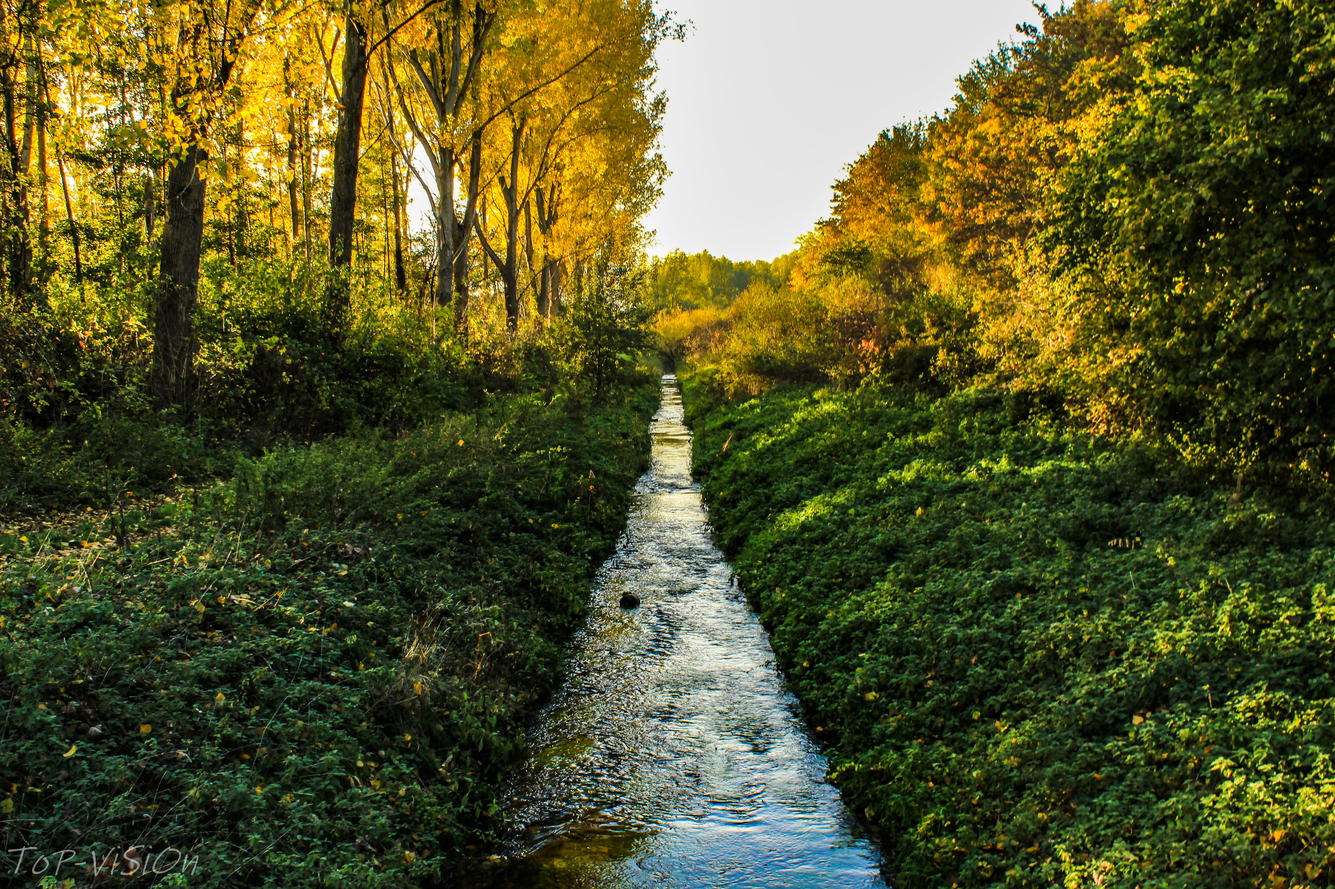
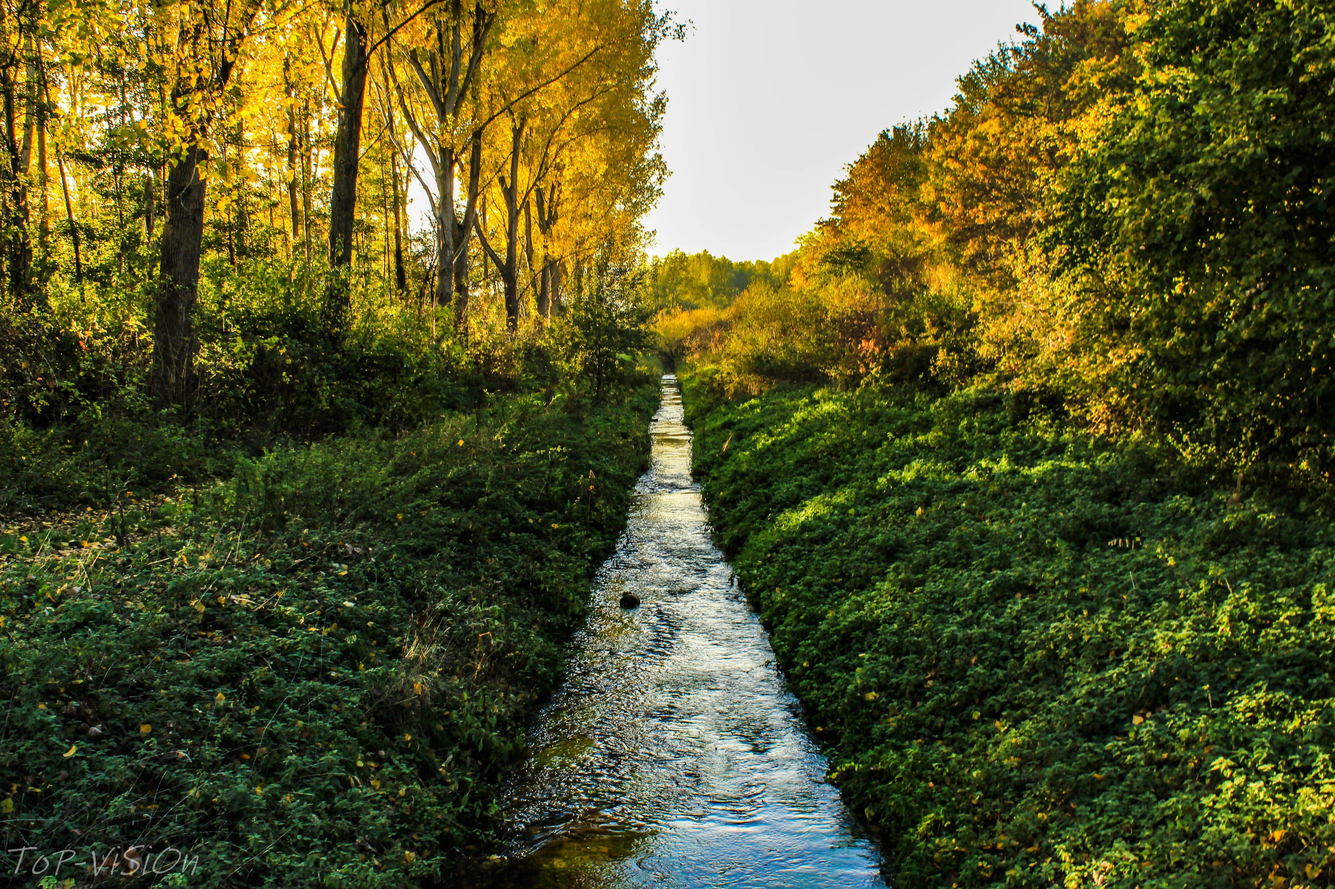
-added commit at JS -compressed images

diff --git a/script.js b/script.js
@@ -1,39 +1,134 @@
-let currentIndex = 1;
+// Speichert, welches Bild gerade geöffnet ist
+// Starten bei 0 (erstes Bild)
+let currentIndex = 0;
+
+// Anzahl aller Bilder im Ordner
 const totalImages = 27;
 
 
+// Container, in dem alle Vorschaubilder liegen
+const imageContainer = document.getElementById('image-container');
+
+// Das <dialog>-Element für die große Ansicht
+const dialog = document.getElementById('open-dialog');
+
+// Das <img>-Element im Dialog
+const dialogImg = document.getElementById('dialog-img');
+
+// Button zum Schließen des Dialogs
+const closeButton = document.getElementById('close-button');
+
+// Navigationspfeil nach links
+const navBack = document.querySelector('.nav.back');
+
+// Navigationspfeil nach rechts
+const navNext = document.querySelector('.nav.next');
+
+
+// Bilder in die Seite einfügen
+
+
 function renderImg() {
-    const imagecontainerRef = document.getElementById('image-container');
-    
-    for(let i = 1; i < 28; i++){  
-        
-        imagecontainerRef.innerHTML += `<img src="./img/bild${i}.jpg" alt="" onclick="openDialog(${i})">`
+    // Schleife läuft so oft, wie es Bilder gibt
+    for (let i = 0; i < totalImages; i++) {
+
+        // Fügt für jedes Bild ein <img>-Element in den Container ein
+        // i + 1, weil die Dateinamen bei bild1.jpg beginnen
+        imageContainer.innerHTML += `
+            <img src="./img/bild${i + 1}.jpg" alt="">
+        `;
     }
 }
 
-function openDialog (i) {
-    const dialog = document.getElementById('open-dialog');
-    const dialogImg = document.getElementById('dialog-img');
 
-    dialogImg.src = `./img/bild${i}.jpg`;
+// Dialog öffnen und Bild setzen
+
+
+function openDialog(index) {
+    // Merkt sich, welches Bild geklickt wurde
+    currentIndex = index;
+
+    // Setzt das passende Bild im Dialog
+    dialogImg.src = `./img/bild${currentIndex + 1}.jpg`;
+
+    // Öffnet das Dialogfenster
     dialog.showModal();
-} 
+}
 
-document.getElementById('close-button').addEventListener('click', () => {
-    document.getElementById('open-dialog').close();
+
+// Dialog schließen
+
+
+closeButton.addEventListener('click', () => {
+    // Schließt den Dialog
+    dialog.close();
 });
 
-document.querySelector('.nav.back').addEventListener('click', () => {
+
+// Navigation: vorheriges Bild
+
+
+navBack.addEventListener('click', () => {
+
+    // Geht ein Bild zurück
     currentIndex--;
-    if (currentIndex < 1) currentIndex = totalImages;
-    document.getElementById('dialog-img').src = `./img/bild${currentIndex}.jpg`;
+
+    // Wenn wir vor dem ersten Bild sind,
+    // springen wir zum letzten Bild
+    if (currentIndex < 0) {
+        currentIndex = totalImages - 1;
+    }
+
+    // Aktualisiert das Bild im Dialog
+    dialogImg.src = `./img/bild${currentIndex + 1}.jpg`;
 });
 
-document.querySelector('.nav.next').addEventListener('click', () => {
+
+// Navigation: nächstes Bild
+
+
+navNext.addEventListener('click', () => {
+
+    // Geht ein Bild weiter
     currentIndex++;
-    if (currentIndex > totalImages) currentIndex = 1; 
-    document.getElementById('dialog-img').src = `./img/bild${currentIndex}.jpg`;
+
+    // Wenn wir hinter dem letzten Bild sind,
+    // springen wir wieder zum ersten Bild
+    if (currentIndex >= totalImages) {
+        currentIndex = 0;
+    }
+
+    // Aktualisiert das Bild im Dialog
+    dialogImg.src = `./img/bild${currentIndex + 1}.jpg`;
 });
 
+
+// Klick-Events für Vorschaubilder
+
+
+function addEventTrigger() {
+
+    // Holt alle <img>-Elemente im Container
+    const images = imageContainer.getElementsByTagName('img');
+
+    // Geht alle Bilder durch
+    for (let i = 0; i < images.length; i++) {
+
+        // Fügt jedem Bild einen Klick-Listener hinzu
+        images[i].addEventListener('click', () => {
+
+            // Öffnet den Dialog mit dem angeklickten Bild
+            openDialog(i);
+        });
+    }
+}
+
+
+// Startpunkt des Skripts
+
+
+// Erst Bilder anzeigen
 renderImg();
 
+// Danach Klick-Events hinzufügen
+addEventTrigger();
